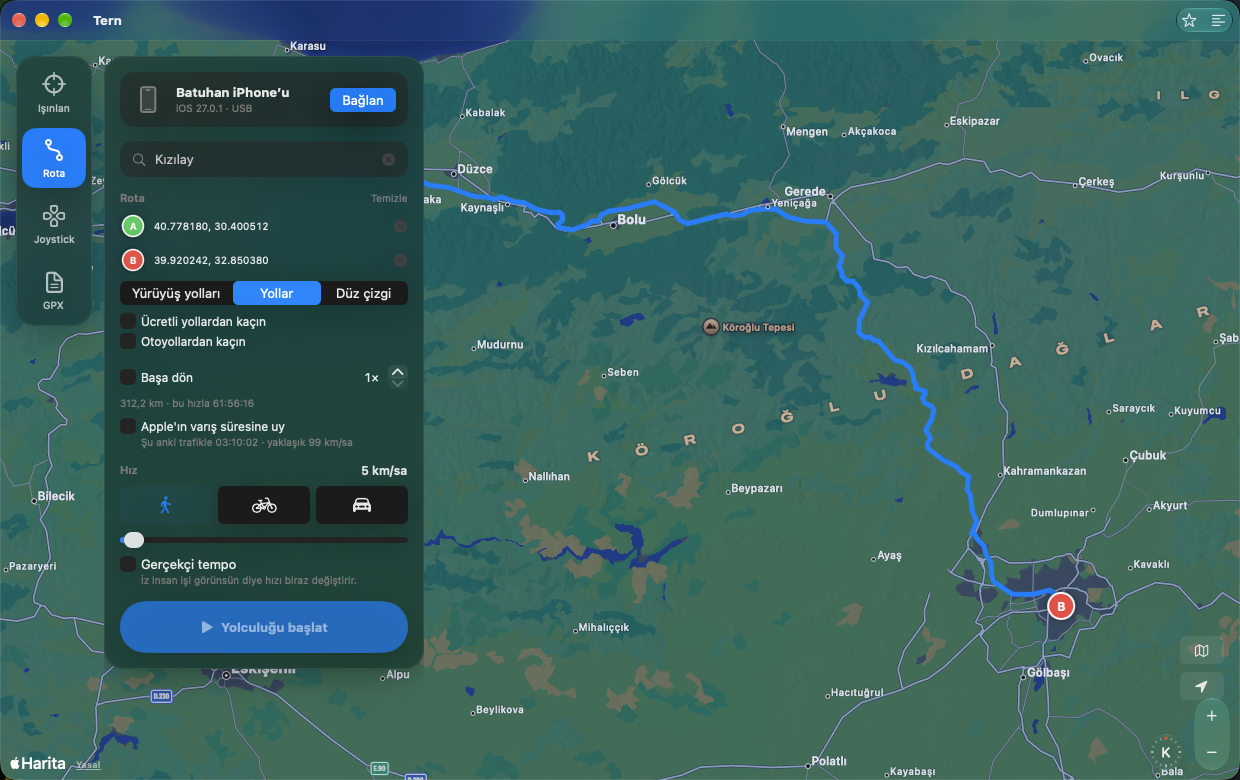
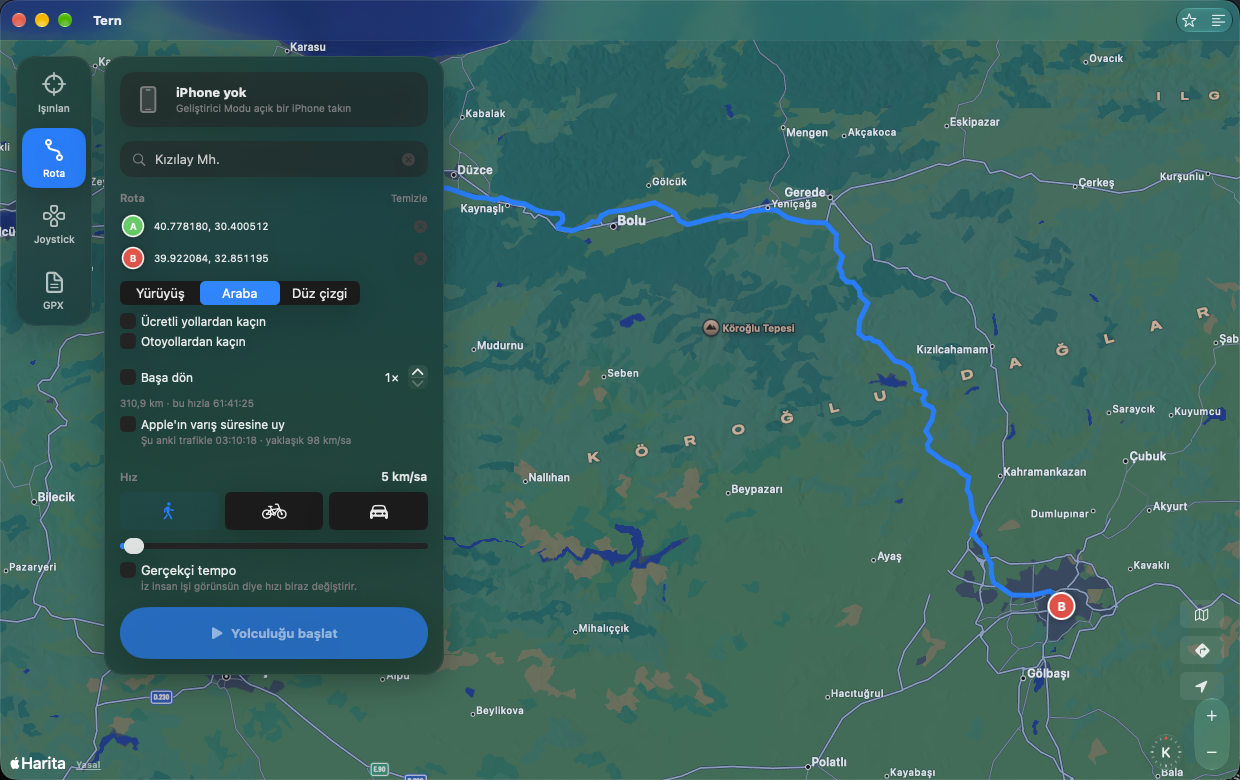
wp

diff --git a/README.md b/README.md
@@ -12,7 +12,7 @@ channel that Xcode uses, wrapped in a CarPlay-style interface.
 
 [Türkçe açıklama aşağıda.](#türkçe)
 
-![Tern window](docs/screenshot.png)
+![Tern window](docs/assets/screenshot.png)
 
 ## Features
 
